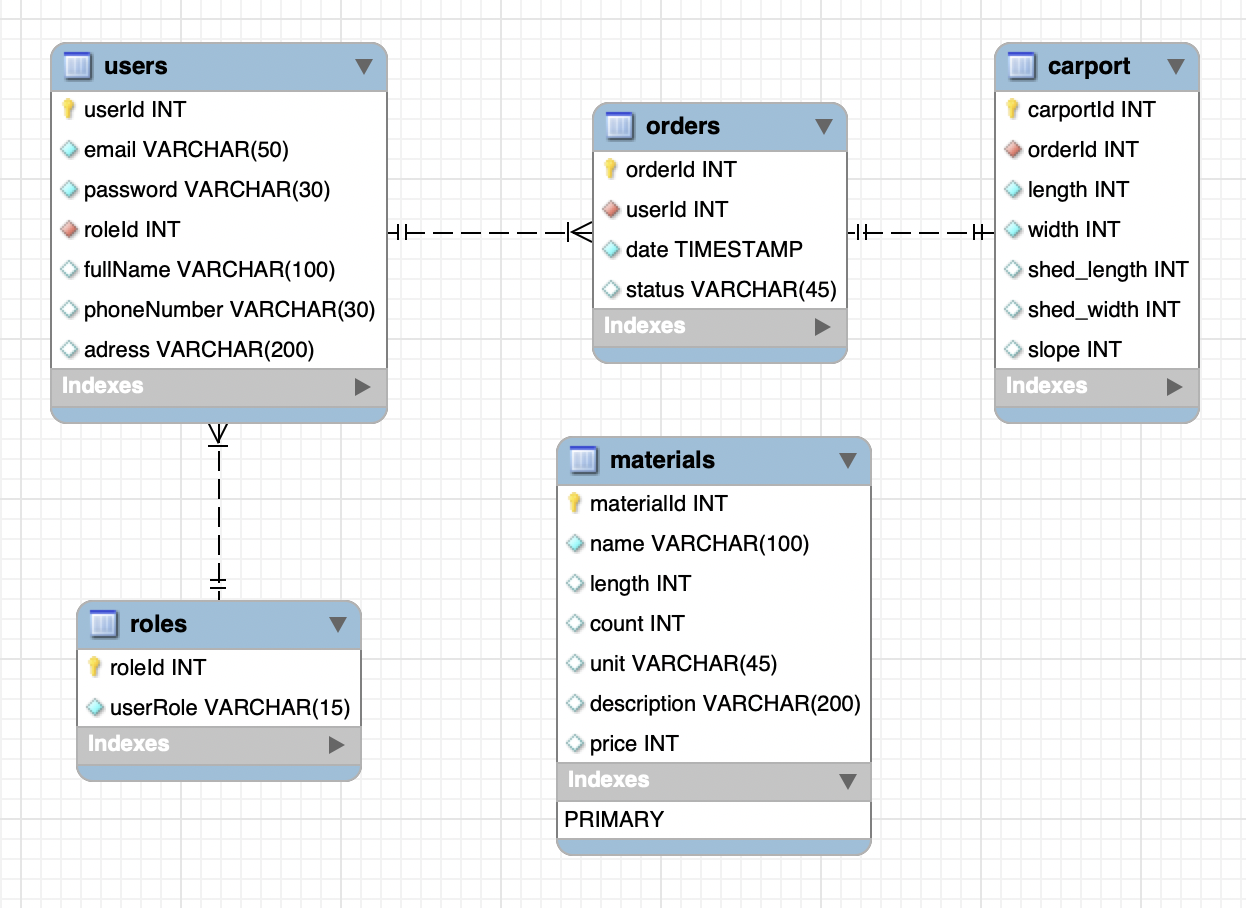
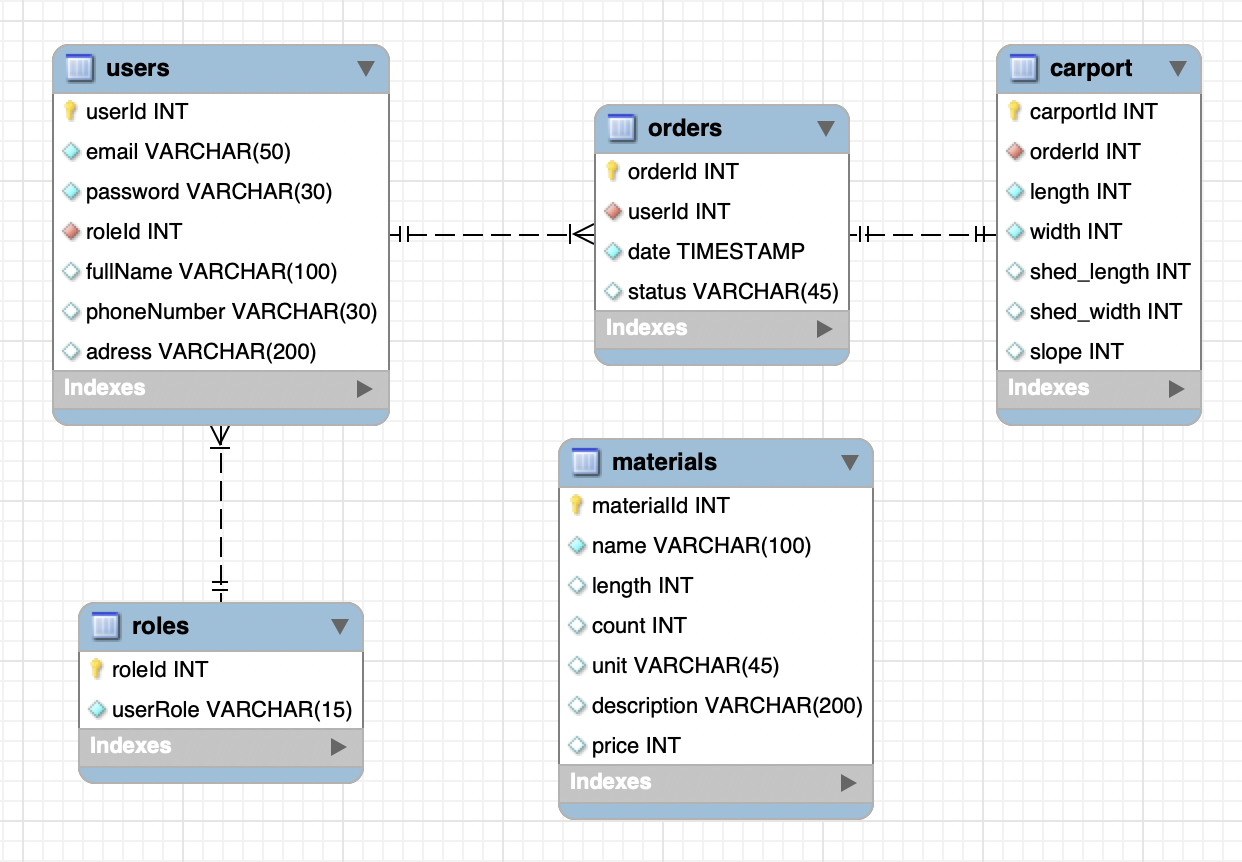
rettet sql script og tilpasset usermapper til script

diff --git a/src/test/java/DBAccess/DiverseTest.java b/src/test/java/DBAccess/DiverseTest.java
@@ -1,0 +1,115 @@
+package DBAccess;
+
+import FunctionLayer.LoginSampleException;
+import FunctionLayer.User;
+import org.junit.Before;
+import org.junit.BeforeClass;
+import org.junit.Test;
+
+import java.sql.Connection;
+import java.sql.DriverManager;
+import java.sql.SQLException;
+import java.sql.Statement;
+
+import static org.junit.Assert.*;
+import static org.junit.Assert.assertEquals;
+
+public class DiverseTest {
+    private static Connection testConnection;
+    private static String USER = "adminfog";
+    private static String USERPW = "3011fog/";
+    private static String DBNAME = "fogcarport_db_test?serverTimezone=CET&useSSL=false";
+    private static String HOST = "localhost";
+
+    @BeforeClass
+    public static void setup() {
+        try {
+            // avoid making a new connection for each test
+            if (testConnection == null) {
+                String url = String.format("jdbc:mysql://%s:3306/%s", HOST, DBNAME);
+                Class.forName("com.mysql.cj.jdbc.Driver");
+
+                testConnection = DriverManager.getConnection(url, USER, USERPW);
+                // Make mappers use test
+                Connector.setConnection(testConnection);
+            }
+        } catch (ClassNotFoundException | SQLException ex) {
+            testConnection = null;
+            System.out.println("Could not open connection to database: " + ex.getMessage());
+        }
+    }
+
+    @Before
+    public void beforeEachTest() {
+        // reset test database
+        try (Statement stmt = testConnection.createStatement()) {
+            stmt.execute("DROP TABLE IF EXISTS users;");
+            stmt.execute("CREATE TABLE users LIKE fogcarport_db.users;");
+           // stmt.execute("INSERT INTO users VALUES (1,'Alice@Cooper.com','pass1234',30,'Alice Cooper','60607070','Nørgaardsvej 30, DK-2800 Kgs. Lyngby')");
+            stmt.execute("insert into users select * from fogcarport_db.users");
+        }
+        catch (SQLException ex){
+            System.out.println("Could not open connection to database: " + ex.getMessage());
+        }
+    }
+
+    @Test
+    public void testSetUpOK() {
+        // Just check that we have a connection.
+        assertNotNull( testConnection );
+    }
+
+
+    @Test
+    public void testLogin01() throws LoginSampleException {
+        // Can we log in
+        User user = UserMapper.login( "jens@somewhere.com", "jensen" );
+        assertTrue( user != null );
+    }
+
+    @Test( expected = LoginSampleException.class )
+    public void testLogin02() throws LoginSampleException {
+        // We should get an exception if we use the wrong password
+        User user = UserMapper.login( "jens@somewhere.com", "larsen" );
+    }
+
+    @Test
+    public void testLogin03() throws LoginSampleException {
+        // Alice is supposed to be a customer which is known by roleId "30".
+        User user = UserMapper.login( "Alice@Cooper.com", "pass1234" );
+        assertEquals( "30", user.getRole() );
+    }
+
+    @org.junit.Test
+    public void testCreateUser01() throws LoginSampleException {
+        // Can we create a new user - Notice, if login fails, this will fail
+        // but so would login01, so this is OK
+        User original = new User( "king@kong.com", "uhahvorhemmeligt", "konge" );
+        UserMapper.createUser( original );
+        User retrieved = UserMapper.login( "king@kong.com", "uhahvorhemmeligt" );
+        assertEquals( "konge", retrieved.getRole() );
+    }
+
+}
+
+/*
+
+@Before
+    public void beforeEachTest() {
+        // reset test database
+        try (Statement stmt = testConnection.createStatement()) {
+            stmt.execute("DROP SCHEMA IF EXISTS fogcarport_db_test;");
+            stmt.execute("CREATE SCHEMA  IF NOT EXISTS fogcarport_db_test;");
+            stmt.execute("USE fogcarport_db_test;");
+            stmt.execute("INSERT INTO users VALUES (1,'Alice@Cooper.com','pass1234',30,'Alice Cooper','60607070','Nørgaardsvej 30, DK-2800 Kgs. Lyngby')");
+            //  stmt.execute("insert into users select * from UsersTest");
+        }
+        catch (SQLException ex){
+            System.out.println("Could not open connection to database: " + ex.getMessage());
+        }
+    }
+
+
+
+
+*/

diff --git a/src/main/java/DBAccess/UserMapper.java b/src/main/java/DBAccess/UserMapper.java
@@ -18,7 +18,7 @@ public class UserMapper {
     public static void createUser( User user ) throws LoginSampleException {
         try {
             Connection con = Connector.connection();
-            String SQL = "INSERT INTO Users (Email, UserPassword, RoleId, FullName, Phone, Address) VALUES (?, ?, ?, ?, ?, ?)";
+            String SQL = "INSERT INTO users (email, userPassword, roleId, fullName, phoneNumber, address) VALUES (?, ?, ?, ?, ?, ?)";
             PreparedStatement ps = con.prepareStatement( SQL, Statement.RETURN_GENERATED_KEYS );
             ps.setString( 1, user.getEmail() );
             ps.setString( 2, user.getPassword() );
@@ -42,8 +42,8 @@ public class UserMapper {
         try {
 
             Connection con = Connector.connection();
-            String SQL = "SELECT UserId, RoleId, FullName, Phone, Address FROM Users "
-                    + "WHERE Email=? AND UserPassword=?";
+            String SQL = "SELECT userId, roleId, fullName, phoneNumber, address FROM users "
+                    + "WHERE email=? AND userPassword=?";
 
             PreparedStatement ps = con.prepareStatement( SQL );
             System.out.println(ps.toString());
@@ -52,11 +52,11 @@ public class UserMapper {
             ps.setString( 2, password );
              ResultSet rs = ps.executeQuery();
             if ( rs.next() ) {
-                String role = rs.getString("RoleId");
-                int userId = rs.getInt("UserId");
-                String fullName = rs.getString("Fullname");
-                String phone = rs.getString("Phone");
-                String address = rs.getString("Address");
+                String role = rs.getString("roleId");
+                int userId = rs.getInt("userId");
+                String fullName = rs.getString("fullname");
+                String phone = rs.getString("phoneNumber");
+                String address = rs.getString("address");
                 User user = new User(email, password, role);
                 user.setUserId(userId);
                 user.setPhone(phone);
